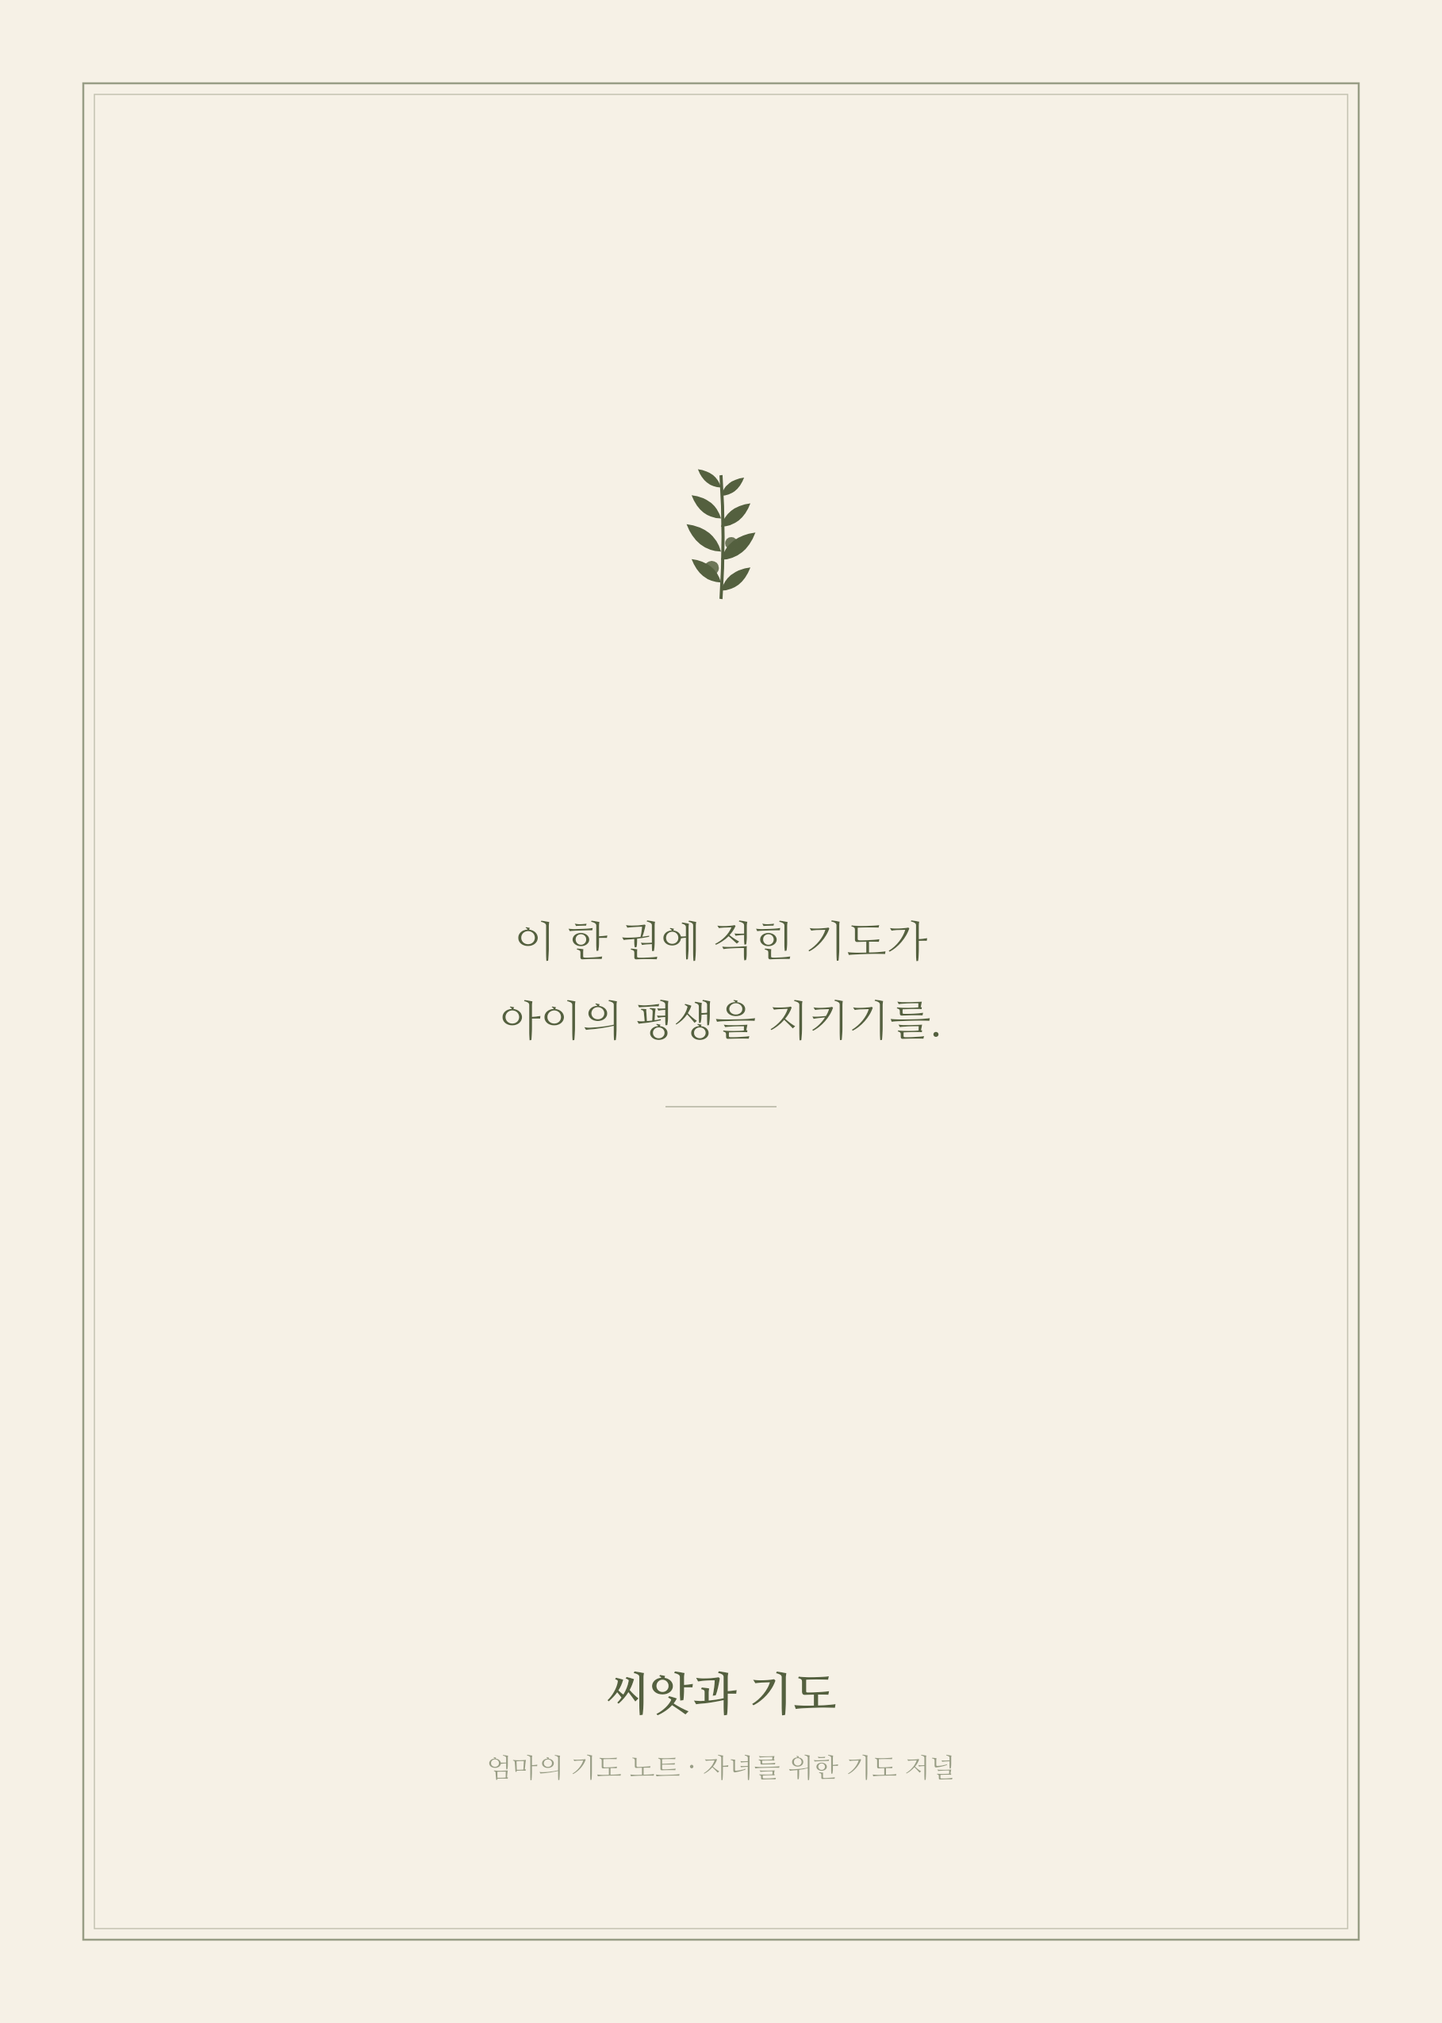
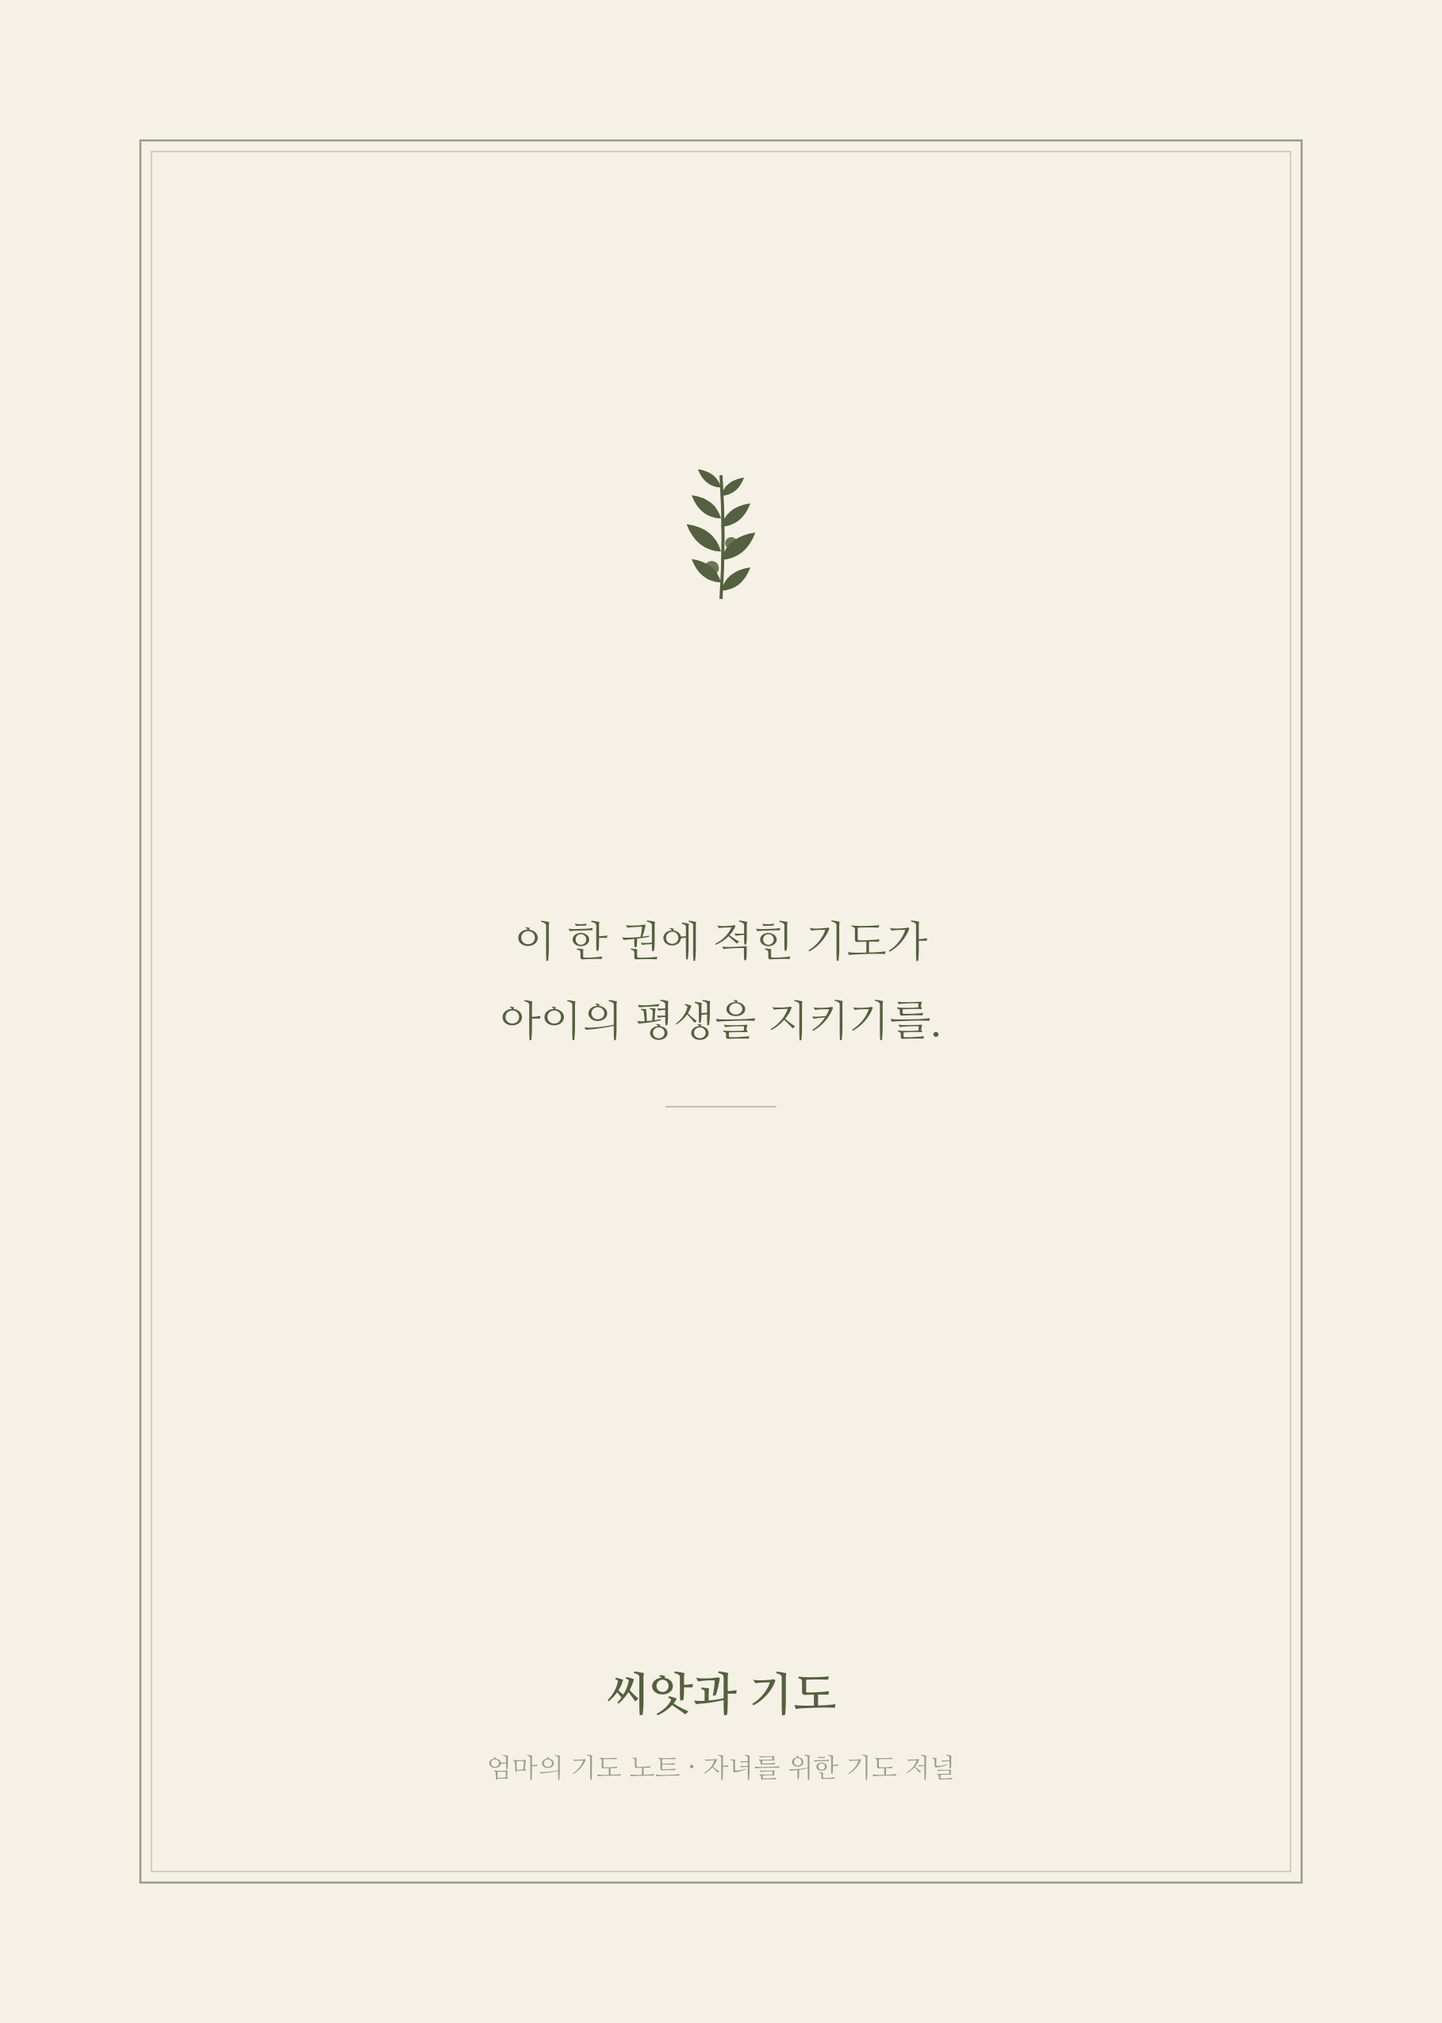
feat: 전수 검수 완료 — 표지 타공 안전여백 수정 + LAUNCH.md 단일 실행 플랜
검수(문서·이미지·PDF 전체):
- 썸네일·상세·내지·로고·PDF 3종(110p, A5) 이상 없음, 성경 표기 정확
- 발견 1건 수정: 표지 프레임이 와이어 타공 존(10mm) 침범 위험
  → SAFE 105→177(재단선 기준 12mm), 앞표지 발행처 위치 보정, 가이드에 타공 존 표시, 표지 재생성

정리·통합:
- LAUNCH.md 신설: 유일 실행 문서 (D-Day 체크리스트, POD 사양, 스토어 복붙 카피,
  샘플 검수 리스트, 최소 노력 운영 루프, 검증 게이트, 검수 결과)
- README: LAUNCH.md 최상단 허브화, GEO·미니앱·등산은 보류 명시
- bible-journal README: v1.9 체인지로그 + 재생성 환경(폰트 출처) 문서화

Claude-Session: https://claude.ai/code/session_017DTNwtN2MZyodwNUpr1GUU

diff --git a/assets/bible-journal/generate_cover.js b/assets/bible-journal/generate_cover.js
@@ -11,7 +11,7 @@ const TW = 1748, TH = 2480, BLEED = 35;
 const W = TW + BLEED * 2, H = TH + BLEED * 2;   // 1818 x 2550
 const CREAM = '#F6F1E6', INK = '#54603F';
 const INK_SOFT = 'rgba(84,96,63,0.58)', INK_FAINT = 'rgba(84,96,63,0.32)';
-const SAFE = 105; // frame/safe inset from bleed edge (≈70px inside trim)
+const SAFE = 177; // frame inset from bleed edge (≈142px=12mm inside trim) — 와이어 타공 여백(제본쪽 10mm+) 확보
 
 function page() { const c = createCanvas(W, H); const x = c.getContext('2d'); x.fillStyle = CREAM; x.fillRect(0, 0, W, H); return { c, x }; }
 function fit(x, t, maxW, base, fam) { let s = base; do { x.font = `${s}px "${fam}"`; if (x.measureText(t).width <= maxW) break; s -= 2; } while (s > 10); return s; }
@@ -34,7 +34,7 @@ function front() {
   center(x, '자녀를 위한 기도 저널', CX, O + 1335, 84, 'NMB', 'rgba(84,96,63,0.92)');
   center(x, '쉬지 말고 기도하라', CX, O + 2025, 70, 'NMB', INK);
   center(x, '데살로니가전서 5 : 17', CX, O + 2120, 48, 'NMR', INK_SOFT);
-  center(x, '씨앗과 기도', CX, O + 2330, 50, 'NMB', INK_SOFT);
+  center(x, '씨앗과 기도', CX, O + 2245, 50, 'NMB', INK_SOFT);
   return c;
 }
 // BACK
@@ -53,9 +53,12 @@ function guides(base) {
   const c = createCanvas(W, H); const x = c.getContext('2d'); x.drawImage(base, 0, 0);
   x.setLineDash([18, 12]); x.lineWidth = 3;
   x.strokeStyle = 'rgba(210,60,60,0.9)'; x.strokeRect(BLEED, BLEED, TW, TH);                 // trim
-  x.strokeStyle = 'rgba(60,110,210,0.85)'; x.strokeRect(BLEED + 70, BLEED + 70, TW - 140, TH - 140); // safe
-  x.setLineDash([]); x.fillStyle = 'rgba(210,60,60,0.95)'; x.font = '30px "NMR"'; x.textAlign = 'left';
-  x.fillText('빨강 = 재단선(trim) / 파랑 = 안전선(safe) / 바깥 = 도련(bleed)', BLEED + 80, BLEED + 50);
+  x.strokeStyle = 'rgba(60,110,210,0.85)'; x.strokeRect(BLEED + 59, BLEED + 59, TW - 118, TH - 118); // safe 5mm
+  x.setLineDash([]);
+  const PUNCH = 118; // 10mm 타공 존 (제본쪽: 앞표지=왼쪽, 뒤표지=오른쪽)
+  x.fillStyle = 'rgba(230,140,40,0.18)'; x.fillRect(BLEED, BLEED, PUNCH, TH);
+  x.fillStyle = 'rgba(210,60,60,0.95)'; x.font = '30px "NMR"'; x.textAlign = 'left';
+  x.fillText('빨강 = 재단선(trim) / 파랑 = 안전선(safe 5mm) / 주황 밴드 = 와이어 타공 존(10mm) / 바깥 = 도련(bleed)', BLEED + 80, BLEED + 50);
   return c;
 }
 

diff --git a/LAUNCH.md b/LAUNCH.md
@@ -1,0 +1,179 @@
+# 🚀 LAUNCH — 씨앗과 기도 「엄마의 기도 노트」 최종 실행 플랜
+
+> **이 문서가 유일한 실행 문서입니다.** 다른 모든 문서는 참고 자료입니다.
+> 전체 작업물(문서·이미지·PDF) 전수 검수 완료: 2026-07-19. 검수 결과는 맨 아래 §9.
+
+---
+
+## 0. 질문에 대한 정직한 답 — "이게 최선이야?"
+
+**만들 수 있는 것은 전부 만들어져 있고, 검수까지 끝났습니다.**
+제품 본문 110p PDF, 인쇄용 표지, 스토어 썸네일 5종, 상세페이지 6조각, 브랜드 로고, 가격표, 14일 콘텐츠, 검증 기준 — 전부 완성 상태입니다.
+
+이제 남은 것은 AI가 대신 할 수 없는 **계정 만들기·주문 넣기·붙여넣기** 5가지뿐이고,
+전부 합쳐 **약 8시간의 능동 작업**입니다. 그 지도가 이 문서입니다.
+
+그리고 정직한 경고 하나: **"완전 방치로 버는 돈"은 이 모델에 없습니다.**
+다만 아래 플랜은 노력을 ①초기 8시간 ②하루 10분×14일 ③이후 주 2시간까지 압축한, 현실적인 최소 노력 경로입니다. 더 줄이는 유일한 방법은 §6의 디지털 PDF 레인(배송·재고·CS 없음)입니다.
+
+---
+
+## 1. 포트폴리오 최종 정리 (오늘부로 확정)
+
+| 프로젝트 | 결정 | 이유 |
+|---|---|---|
+| **씨앗과 기도 — 엄마의 기도 노트** | ✅ **유일하게 진행** | 자산 100% 완성 + founder-market fit(신앙 문화 원어민) + 무재고 POD |
+| GEO 진단 서비스 (보이나) | ⏸ 보류 | B2B 콜드영업·딜리버리 노동 = "최소 노력"과 정반대. 저널 검증 후 재검토 |
+| 미니앱 루프 (후킹 스코어러 등) | ⏸ 보류 | 매일 마케터 대상 콘텐츠 발행 필요 = 두 번째 풀타임. 도구는 자가 검수용으로만 사용 |
+| 등산 기록 저널 | ⏸ 대기 | 성경저널이 KILL될 경우의 예비 1순위 (양식 재사용 가능) |
+
+**원칙: 검증(3주 10권)이 끝나기 전에는 두 번째 프로젝트를 열지 않는다.**
+
+---
+
+## 2. D-Day 체크리스트 — 첫 판매 검증까지 (총 ~8시간)
+
+### D0 — 계정 셋업 (한 번만, 2~3시간)
+- [ ] **Threads 계정 개설**
+  - 프로필 사진: `assets/bible-journal/logo_profile_cream.png`
+  - 표시명: **씨앗과 기도** / 핸들 후보: `@seed.and.prayer` `@ssiatgwa.gido` `@momprayernote`
+  - 바이오(복붙):
+    > 🌱 자녀를 위해 기도하는 엄마들의 자리
+    > 매일 한 줄, 아이를 위한 기도와 말씀을 나눠요
+    > 📖 「엄마의 기도 노트」 곧 만나요
+- [ ] **구글폼 1개** — "오픈 알림 신청"(이메일/카톡ID + 자녀 수 2문항) → 프로필 링크에 연결
+- [ ] **레드프린팅 회원가입 + 샘플 1권 주문** (아래 §3 사양 그대로)
+
+### D1~D14 — 검증 콘텐츠 (하루 10분)
+- [ ] `ideas/threads-14day-bible.md`의 D1~D14를 **그대로 복사-붙여넣기** 발행
+  - 시간: 아침 6~8시 또는 밤 9~10시 / 첫 댓글에 CTA(오픈 전엔 폼 링크)
+  - 하루 10분 이상 쓰지 말 것 (댓글 답변 포함)
+- [ ] 저장 수·"어디서 사요?" 댓글·폼 신청 수만 기록 (좋아요는 무시)
+
+### D5± — 샘플 도착 검수 (30분)
+- [ ] §4 샘플 검수 체크리스트 통과 확인
+- [ ] 실물 사진 10장 촬영(자연광·손·성경책 옆) → 이후 스토어/콘텐츠에 사용
+
+### D7~D10 — 스토어 오픈 (2시간)
+- [ ] **스마트스토어 개설** — 개인 판매자로 시작 가능. 매출이 나기 시작하면 사업자등록(간이과세)+통신판매업 신고로 전환(비용 소액, 절차는 그때 확인)
+- [ ] **상품 등록** (전부 준비돼 있음, §5 복붙):
+  - 대표이미지 `thumb_1_main.png`, 추가 `thumb_2~5`
+  - 상세페이지: `detail_part_1.png` ~ `detail_part_6.png` 순서대로
+  - 상품명·가격·옵션: §5 표 그대로
+- [ ] 프로필 링크를 폼 → 스토어로 교체
+
+### D14 — 오픈 & 판정 시작
+- [ ] D14 오퍼 글 발행 + 폼 신청자 전원에게 오픈 알림
+- [ ] 이후 3주간 실판매 집계 → §7 게이트로 GO/KILL
+
+---
+
+## 3. 레드프린팅 주문 사양 (샘플 = 판매품과 동일 사양)
+
+| 항목 | 값 |
+|---|---|
+| 품목 | 디지털인쇄 노트(와이어) / A5 (148×210mm) |
+| 본문 | `mom-prayer-journal_interior-BW-110p.pdf` — 110p, **흑백 1도**, **미색(크림)모조 100g** |
+| 표지 | `cover_front_print.png` + `cover_back_print.png` — 컬러, 스노우/아트지 250g + **무광 코팅** |
+| 제본 | 와이어(트윈링) — 앞/뒤 표지 분리형, 도련 3mm 포함(1818×2550) |
+| 수량 | 샘플 1권 (판매 개시 후엔 주문 모아 주 2회 배치 발주) |
+
+> 주문 화면에 "표지 별도 파일" 업로드 칸이 없으면 고객센터 채팅으로 앞/뒤 표지 파일 첨부를 요청하면 됩니다.
+
+---
+
+## 4. 샘플 검수 체크리스트 (도착 후 30분)
+
+- [ ] **타공이 테두리 프레임을 뚫지 않는가** (v1.9에서 12mm로 수정했지만 실물 확인 필수)
+- [ ] 재단: 프레임 4변이 고르게 보이는가 (한쪽 쏠림 없이)
+- [ ] 본문: 크림지에 검정 잉크 대비 적당한가 / 괘선이 너무 진하지 않은가
+- [ ] 오탈자: 표지 구절(데살로니가전서 5:17), 통독표 66권 이름 훑기
+- [ ] 종이 두께: 뒷비침 없는가 (있으면 다음 주문부터 120g으로)
+- [ ] 와이어 지름: 110p가 여유 있게 넘어가는가
+- 불합격 항목이 있으면 → 사양 1개만 바꿔 재샘플 (전면 재설계 금지)
+
+---
+
+## 5. 스마트스토어 등록 정보 (복사-붙여넣기)
+
+**상품명(SEO):**
+```
+엄마의 기도 노트 · 자녀를 위한 기도 저널 | 성경 통독 · 기도응답 기록 다이어리 (선물용)
+```
+
+**가격/옵션** (`assets/bible-journal/brand-and-pricing.md` 확정안):
+
+| 구성 | 정가 | 런칭 한정가 |
+|---|---|---|
+| 단권 | 24,900 | **19,900** |
+| 2권 세트(선물) | 49,800 | **37,000** |
+| 3권 세트(소그룹) | 74,700 | **54,000** |
+
+- 옵션: 선물포장 +3,000 (크라프트+손글씨 카드) / 배송 3,000, **3만원 이상 무료**
+- 재고 수량: 주문 후 제작이므로 넉넉히(예: 999) 설정, 배송 소요 "제작 4~6일" 명시
+- 검색 태그: 기도노트, 자녀를위한기도, 기도저널, 성경통독, 기도응답, 크리스천다이어리, 태교선물, 어버이날선물
+
+---
+
+## 6. 최소 노력 운영 루프 (검증 통과 후, 주 ~2시간)
+
+| 반복 작업 | 방법 | 시간 |
+|---|---|---|
+| 주문 처리 | 주 2회(월·목) 몰아서 레드프린팅 발주 → 구매자 주소로 직발송 | 2×15분 |
+| 콘텐츠 | 반응 좋았던 글 변형 재발행 + 주 1회 배치로 7개 작성 | 1시간 |
+| CS | 자주 묻는 3개(배송기간·선물포장·세트) 템플릿 답변 저장 | ~0 |
+| 시즌 | 어버이날·성탄·새학기·감사주일 2주 전 "선물" 앵글로 전환 | 캘린더 알림 |
+
+**진짜 제로-노력 레인(선택):** 동일 내지의 **디지털 PDF(인쇄해서 쓰는 버전)**를 ₩7,900~9,900에 병행 판매 — 배송·재고·CS 없음. 타깃(4050)은 완제품 선호라 잠식 위험 낮음. 스토어 안착 후 추가.
+
+**하지 말 것:** 광고비 집행(검증 전), SKU 추가(검증 전), 두 번째 SNS 채널(인스타는 D14 이후 여력 있을 때만).
+
+---
+
+## 7. 검증 게이트 (이미 잠근 숫자 — 사후 변경 금지)
+
+- **GO:** 스토어 오픈 후 3주 내 **실판매 ≥ 10권** 또는 매출 ≥ ₩200,000
+- **1회 교정:** 0~9권이면 가격/표지/후킹 중 **하나만** 바꿔 2주 재시도
+- **KILL:** 재시도도 실패 → 🅱 "1년 성경 필사 저널"(넓은 타깃)로 피벗, 그것도 실패 시 등산 저널로
+- 판정 입력: `gate-calculator.html` (Stage 2)
+
+**현실적 기대치 (기존 분석 유지):**
+
+| 구간 | 월 판매 | 월 순수익(마진 ~1만/권) |
+|---|---|---|
+| 검증 통과 직후 | 30~80권 | 30~80만 |
+| 안착(3~6개월, 콘텐츠 지속 시) | 100~300권 | **100~300만 = 부업 이상** |
+| 상위(시즌+세트+재구매) | 400권+ | 400만+ |
+
+단권 순마진: 19,900 − 원가 6~9천 − 수수료 ~1,100 ≈ **9,800~12,800원/권**.
+손익분기: 샘플+초기비용 → **10권 이내 회수**.
+
+---
+
+## 8. 리스크 3개와 대응 (기존 문서에서 확정된 것)
+
+1. **콘텐츠를 멈추면 트래픽도 멈춘다** → 하루 10분 룰. 그것도 어려운 주는 재발행으로 때움
+2. **카피 위험(POD 해자 0, ~6개월)** → "씨앗과 기도" 계정·후기·이메일 명단이 유일한 해자. 폼/구매자 연락처를 자산으로 축적
+3. **계정 리스크** → Threads 제한 대비: 폼 명단 + (여력 시) 인스타 미러링
+
+---
+
+## 9. 검수 결과 요약 (2026-07-19 전수 검수)
+
+**이상 없음:** 썸네일 5종 / 상세 6조각 / 내지 미리보기 10종 / 로고 4종 / PDF 3종(완제품 110p·흑백 110p·규격 A5 정합) / 성경 표기(데살로니가전서 5:17, 엡 6:4, 통독표 66권) / 두 브랜치 동일 확인
+
+**발견·수정 (v1.9):**
+- 인쇄용 표지 테두리 프레임이 와이어 **타공 존(10mm)을 침범**할 위험 → 재단선 기준 **12mm로 이동** + 앞표지 발행처 위치 보정 + 가이드에 타공 존 시각화 추가 → 재생성 완료
+- 미세 불일치(무해, 방치): 카피 "기도 92편" vs 흑백 본문 데일리 93장 — 1장 초과 제공
+
+**자산 인덱스:**
+
+| 용도 | 파일 |
+|---|---|
+| POD 입고 | `assets/bible-journal/mom-prayer-journal_interior-BW-110p.pdf` + `cover_front_print.png` + `cover_back_print.png` |
+| 스토어 썸네일 | `assets/bible-journal/thumb_1_main.png` ~ `thumb_5_gift.png` |
+| 상세페이지 | `assets/bible-journal/detail_part_1.png` ~ `detail_part_6.png` |
+| 프로필/브랜드 | `assets/bible-journal/logo_profile_cream.png` 외 3종 |
+| 14일 콘텐츠 | `ideas/threads-14day-bible.md` |
+| 가격/상품명 | `assets/bible-journal/brand-and-pricing.md` |
+| 판정 도구 | `gate-calculator.html` |

diff --git a/assets/bible-journal/README.md b/assets/bible-journal/README.md
@@ -73,3 +73,10 @@
 - `cover_front_guides.png` : 재단선(빨강)·안전선(파랑) 확인용 (업로드 X)
 - 와이어제본이라 책등 없음(앞/뒤 분리). RGB PNG — 디지털 POD는 대부분 그대로 수용(필요시 PDF/CMYK 변환 가능)
 - 최종 POD 세트: 흑백 본문 110p + 컬러 앞/뒤 표지 + 와이어 + 미색지
+
+## v1.9 — 전체 검수(2026-07-19) + 표지 타공 안전여백
+- **전수 검수 완료**: 썸네일 5종·상세 6조각·내지 미리보기·로고 4종·PDF 3종(페이지 수·A5 규격) 이상 없음. 성경 표기(데살로니가전서 5:17, 엡 6:4, 통독표 66권) 정확.
+- **수정: 표지 프레임 타공 침범** — 기존 프레임이 재단선 기준 약 6mm 안쪽에 있어 와이어 타공 존(제본쪽 10mm)과 겹칠 위험 → **12mm로 이동**(`SAFE 105→177`), 앞표지 발행처(씨앗과 기도) 위치 보정. 가이드에 주황 타공 존(10mm) 표시 추가.
+- 알려진 미세 불일치(무해): 상세·썸네일 카피 "기도 92편" vs 흑백 입고본 데일리 93장(1장 초과 제공). 수정 불요.
+- **재생성 환경**: `/tmp/journal`에 나눔명조 TTF 3종 + `npm i @napi-rs/canvas pdfkit` 후 `NODE_PATH=<node_modules> node generate_*.js`.
+  폰트 출처: `raw.githubusercontent.com/google/fonts/main/ofl/nanummyeongjo/NanumMyeongjo-{Regular,Bold,ExtraBold}.ttf` (Regular은 `NanumMyeongjo.ttf`로 복사).

diff --git a/README.md b/README.md
@@ -1,5 +1,10 @@
 # 검증 우선 창업 툴킷 (Validation-First Startup Toolkit)
 
+> ## 🚀 지금 진행 중인 것은 하나뿐입니다 → **[LAUNCH.md](LAUNCH.md)**
+> **씨앗과 기도 「엄마의 기도 노트」** — 자산 100% 완성·전수 검수 완료(2026-07-19).
+> 남은 것은 계정·샘플 주문·복붙 발행뿐이며, 그 체크리스트가 LAUNCH.md입니다.
+> 아래 툴킷과 다른 아이디어 문서(GEO·미니앱·등산 저널)는 **보류/참고 자료**입니다 — 검증(3주 10권) 전에 두 번째 프로젝트를 열지 않습니다.
+
 > **핵심 철학 한 줄:** "좋아요·조회수"가 아니라 **"지불 신호(Commitment Signal)"**로 검증한다.
 > 아이디어 → **개발 전에 시장 검증** → 지불 신호가 터진 것만 실제 개발에 자원 투입.
 
